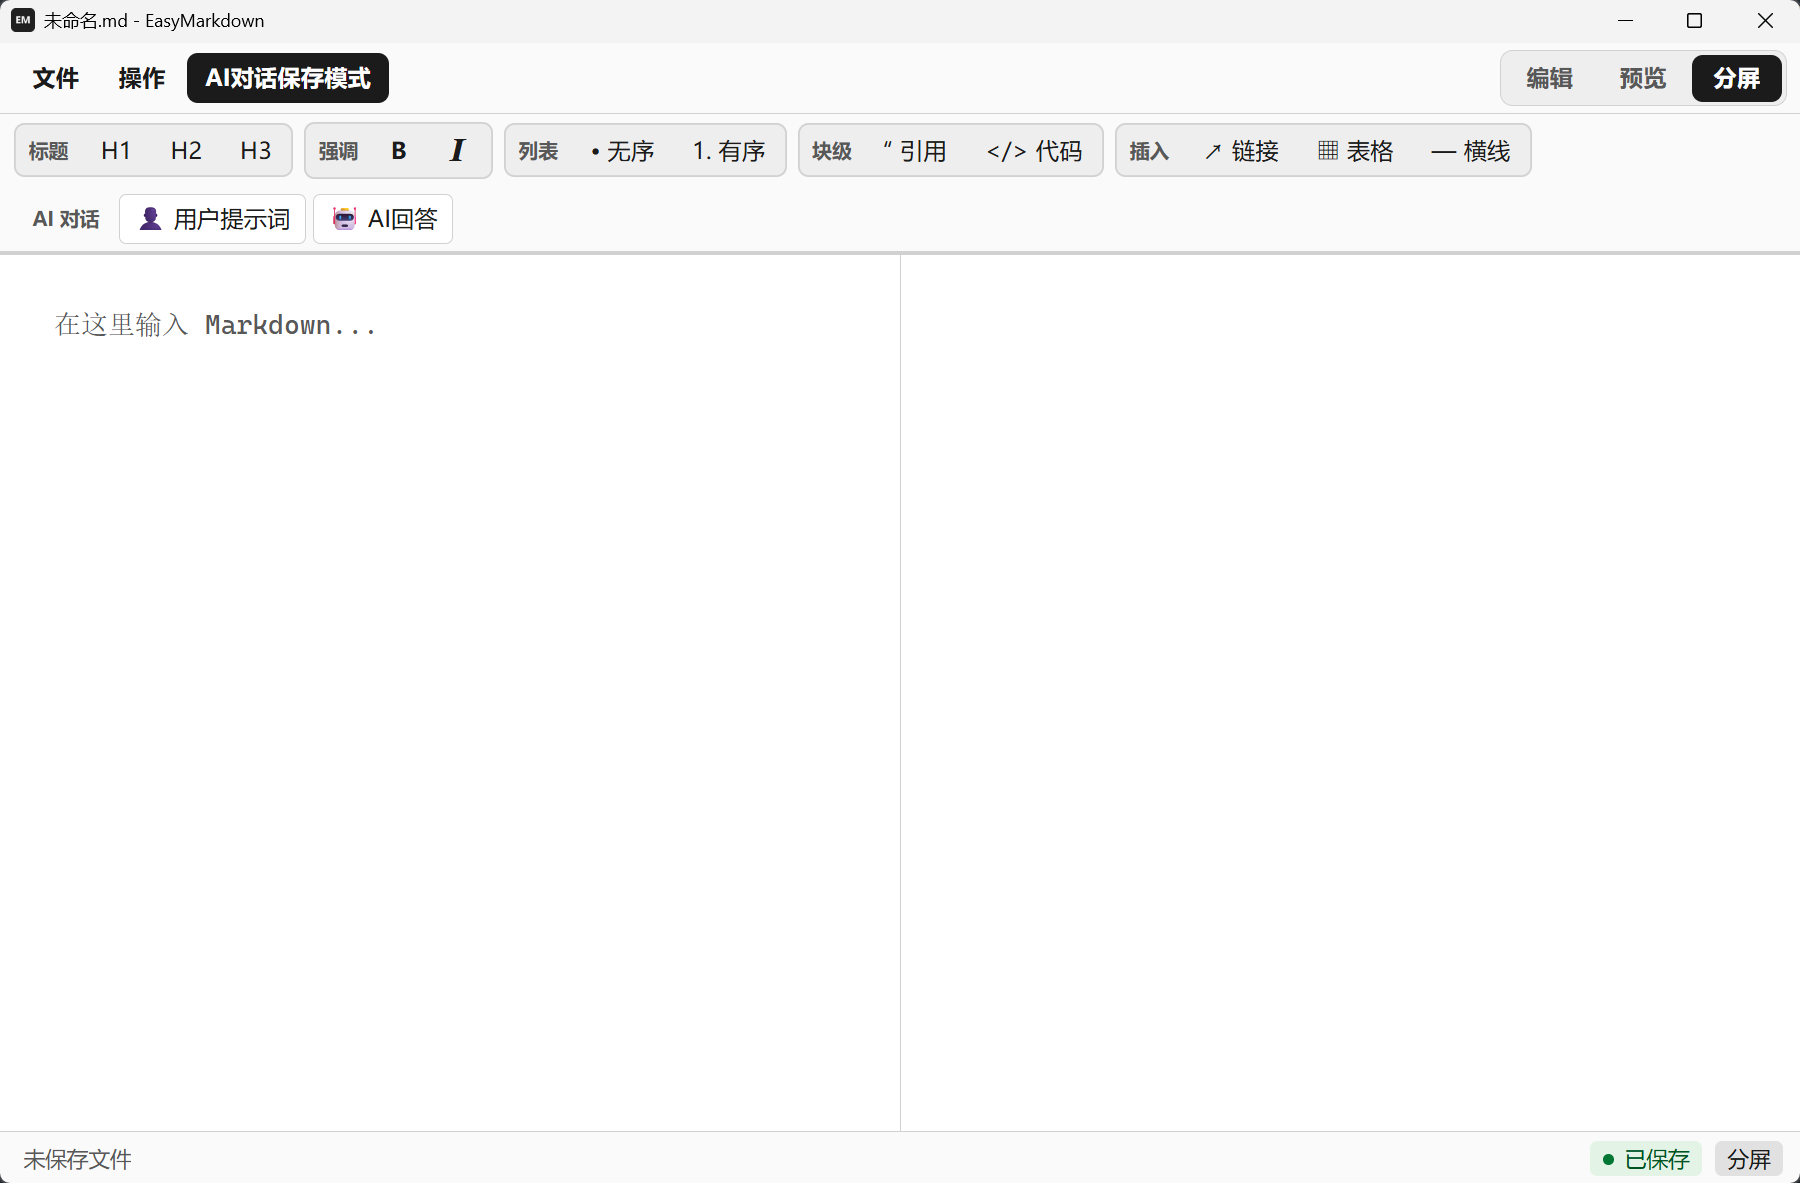
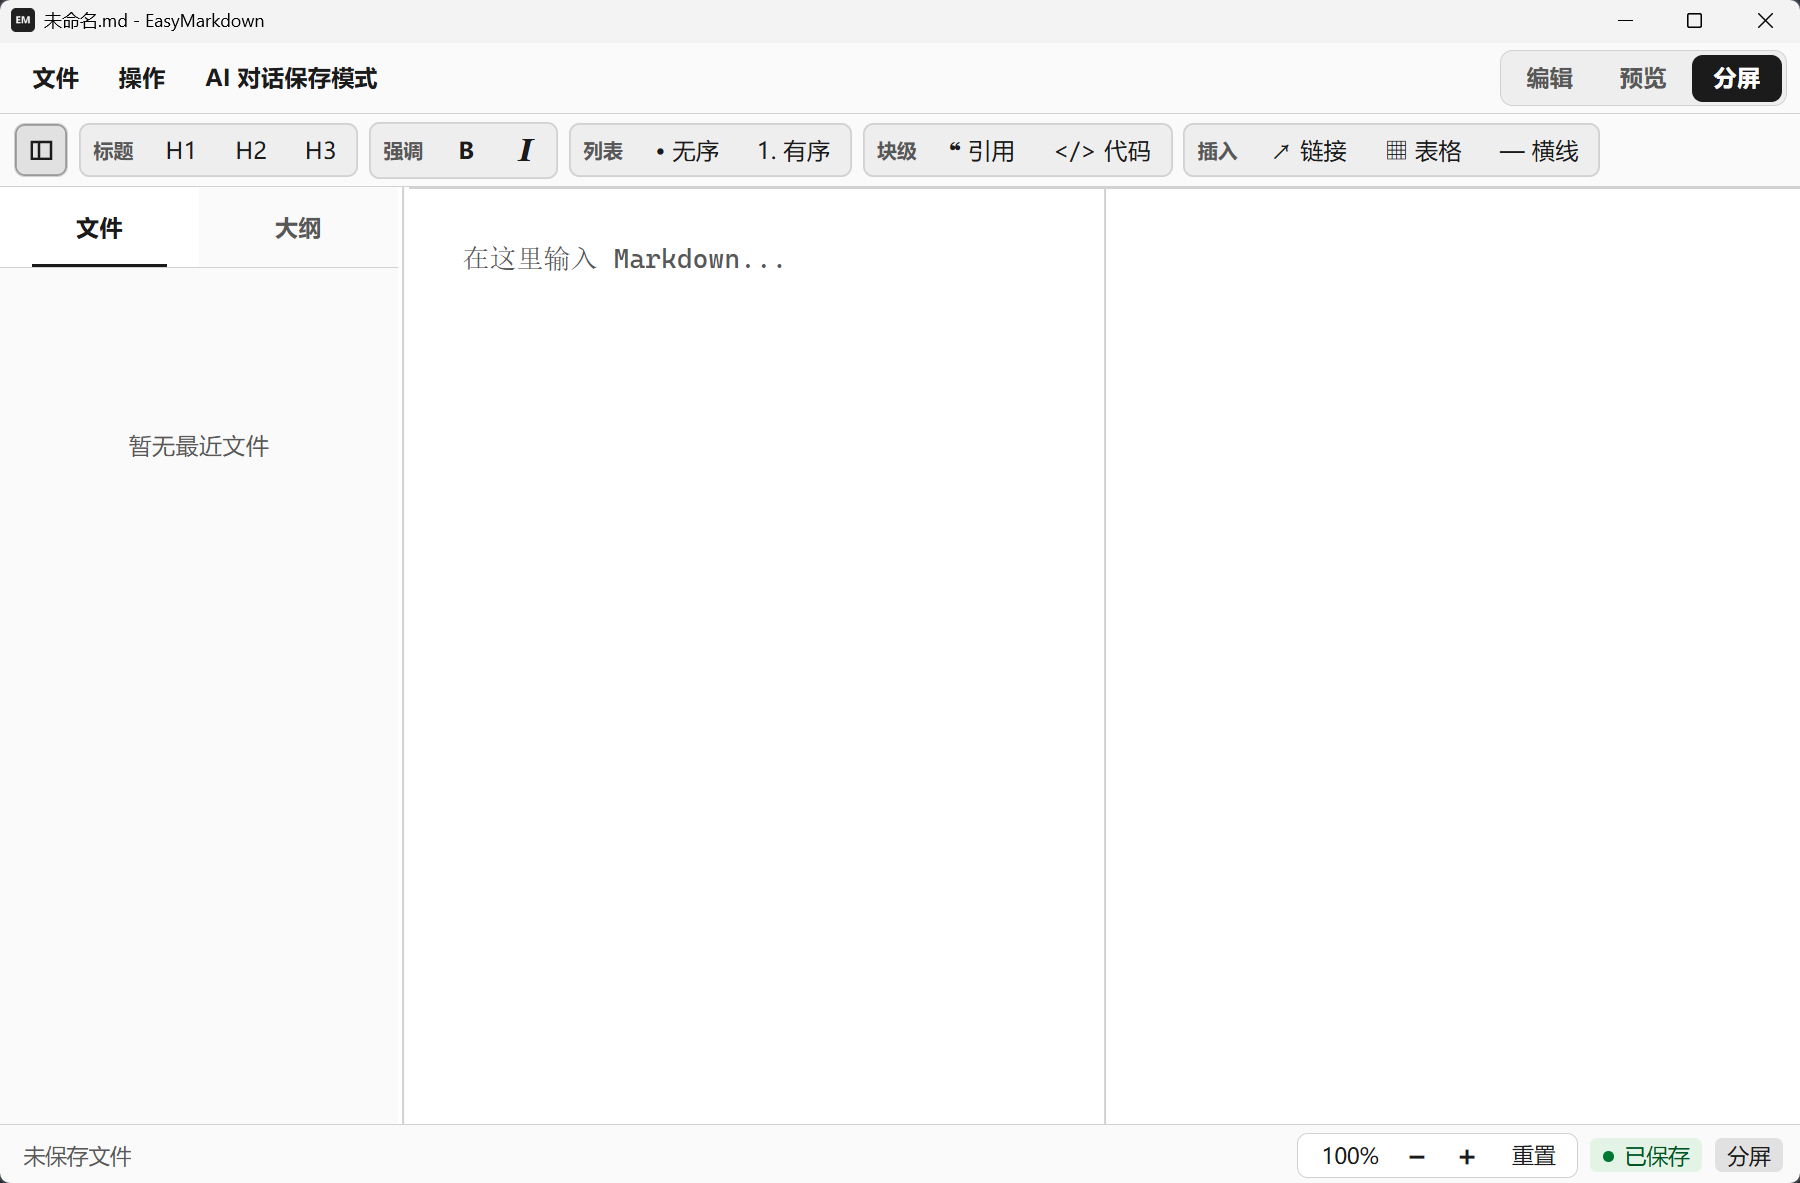
chore: 更新代码结构，清理无用代码

diff --git a/README.fr.md b/README.fr.md
@@ -6,7 +6,7 @@
   <strong>Français</strong>
 </p>
 
-![Aperçu d'EasyMarkdown](demo.png)
+![Aperçu d'EasyMarkdown](demo.fr.png)
 
 ## Présentation
 
@@ -18,7 +18,7 @@ EasyMarkdown est un éditeur Markdown local et léger pour ordinateur, avec édi
 - Modes édition, aperçu et écran partagé
 - Barre de mise en forme Markdown et raccourcis clavier courants
 - Liste des fichiers récents
-- Rendu MDX léger et limité
+- Rendu MDX léger
 - Export PDF
 - Interfaces en chinois, anglais et français
 - Ouverture des liens de l'aperçu dans le navigateur système par défaut

diff --git a/README.en.md b/README.en.md
@@ -6,7 +6,7 @@
   <a href="README.fr.md">Français</a>
 </p>
 
-![EasyMarkdown preview](demo.png)
+![EasyMarkdown preview](demo.en.png)
 
 ## Overview
 
@@ -18,7 +18,7 @@ EasyMarkdown is a lightweight local Markdown desktop editor with editing, live p
 - Edit, preview, and split views
 - Markdown formatting toolbar and common keyboard shortcuts
 - Recent files list
-- Lightweight, restricted MDX rendering
+- Lightweight MDX rendering
 - PDF export
 - Chinese, English, and French interfaces
 - Open preview links in the default system browser

diff --git a/README.md b/README.md
@@ -18,7 +18,7 @@ EasyMarkdown 是一款轻量的本地 Markdown 桌面编辑器，支持编辑、
 - 编辑、预览和分屏视图
 - Markdown 格式工具栏与常用快捷键
 - 最近文件列表
-- 轻量、受限的 MDX 渲染
+- 轻量的 MDX 渲染
 - PDF 导出
 - 中文、英语和法语界面
 - 在系统默认浏览器中打开预览链接
